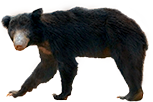
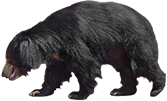
Add new Sloth Bear assets

diff --git a/_sass/pages/_explore.scss b/_sass/pages/_explore.scss
@@ -116,6 +116,7 @@
 }
 
 .explore-btn[data-bear="2"],
+.explore-btn[data-bear="3"],
 .explore-btn[data-bear="4"] {
 	width: 175px;
 }
@@ -186,10 +187,10 @@
 	background: url('../../assets/explore/btn-SlothBear.png');
 	background-repeat: no-repeat;
     //background-size: contain;
-	width: 150px;
+	width: 175px;
 	height: 268px;
 	top: -31px;
-	left: -4px;
+	left: 7px;
 }
 
 .explore-btn-img[data-bear="3"].active {
